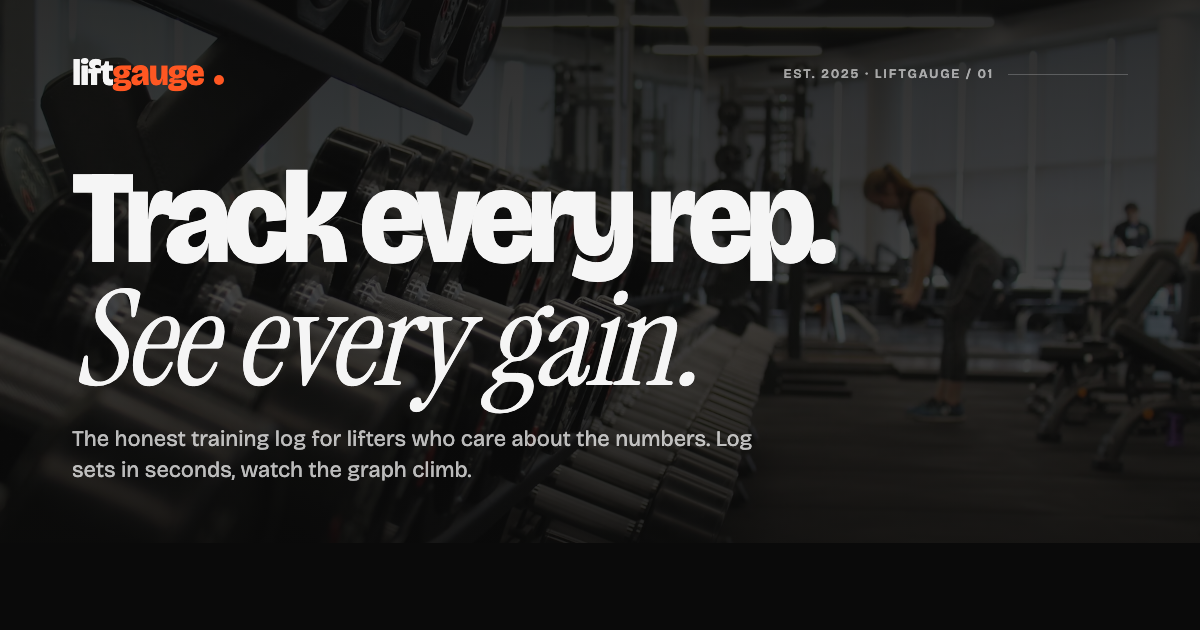
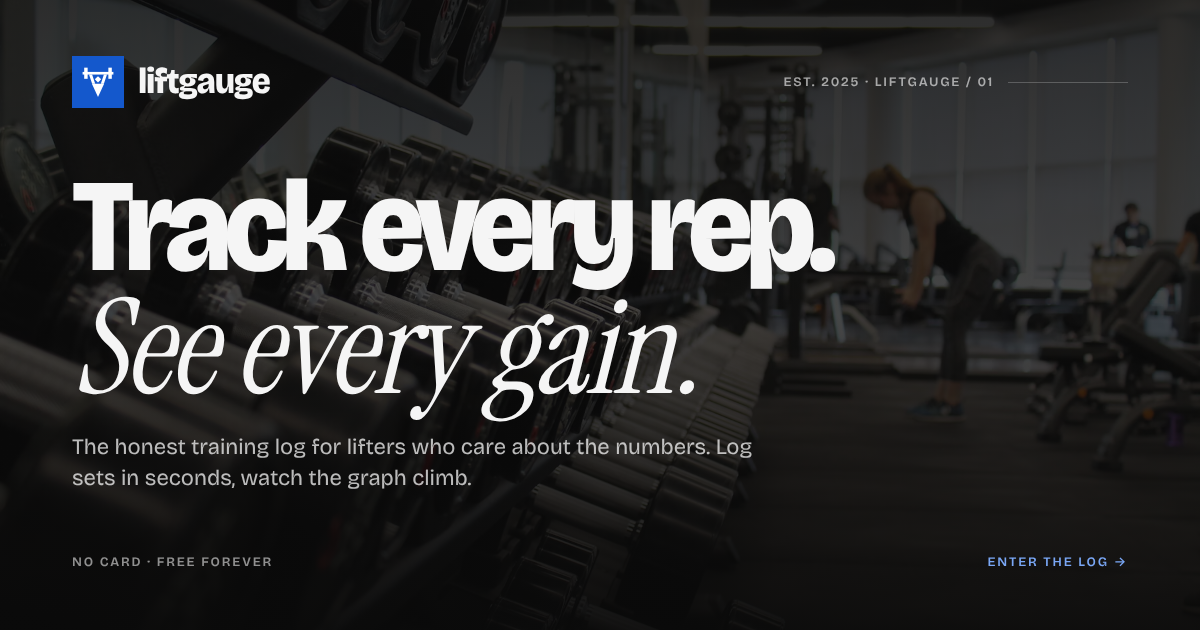
Share image: new lifter mark and blue accent
Swaps the old orange wordmark and dot for the lifter mark on a blue tile
next to a white wordmark, turns the orange CTA blue, and re-renders the
image so the photo covers the full 1200x630 frame again.

Claude-Session: https://claude.ai/code/session_01Tt2L6Cwskw6n24RjHEmfyJ

diff --git a/scripts/og-image.html b/scripts/og-image.html
@@ -48,22 +48,24 @@
       }
       .brand {
         display: flex;
-        align-items: baseline;
-        gap: 10px;
+        align-items: center;
+        gap: 14px;
       }
+      .tile {
+        width: 52px;
+        height: 52px;
+        background: #1458cc;
+        display: flex;
+        align-items: center;
+        justify-content: center;
+      }
+      .mark { width: 34px; height: 34px; display: block; }
       .wordmark {
         font-weight: 800;
         font-size: 36px;
         letter-spacing: -0.035em;
         font-variation-settings: "wdth" 92;
         line-height: 1;
-      }
-      .dot {
-        display: inline-block;
-        width: 10px;
-        height: 10px;
-        border-radius: 999px;
-        background: #ff5722;
       }
       .caps {
         text-transform: uppercase;
@@ -108,7 +110,7 @@
         align-items: flex-end;
       }
       .url {
-        color: #ff7a4a;
+        color: #7aa7f5;
       }
     </style>
   </head>
@@ -121,8 +123,8 @@
 
     <div class="top">
       <div class="brand">
-        <span class="wordmark">lift<span style="color: #ff5722">gauge</span></span>
-        <span class="dot"></span>
+        <span class="tile"><svg class="mark" viewBox="0 0 256 256" aria-hidden="true"><rect x="12" y="52" width="232" height="20" fill="#fff"/><rect x="24" y="20" width="26" height="84" fill="#fff"/><rect x="206" y="20" width="26" height="84" fill="#fff"/><path d="M60.4 72H83.6L106.9 142H83.7Z M195.6 72H172.4L149.1 142H172.3Z" fill="#fff"/><path d="M128 84L152 108L128 132L104 108Z" fill="#fff"/><path d="M82 142H174L128 240Z" fill="#fff"/></svg></span>
+        <span class="wordmark">liftgauge</span>
       </div>
       <div class="caps chapter">
         <span>EST. 2025 · LIFTGAUGE / 01</span>
